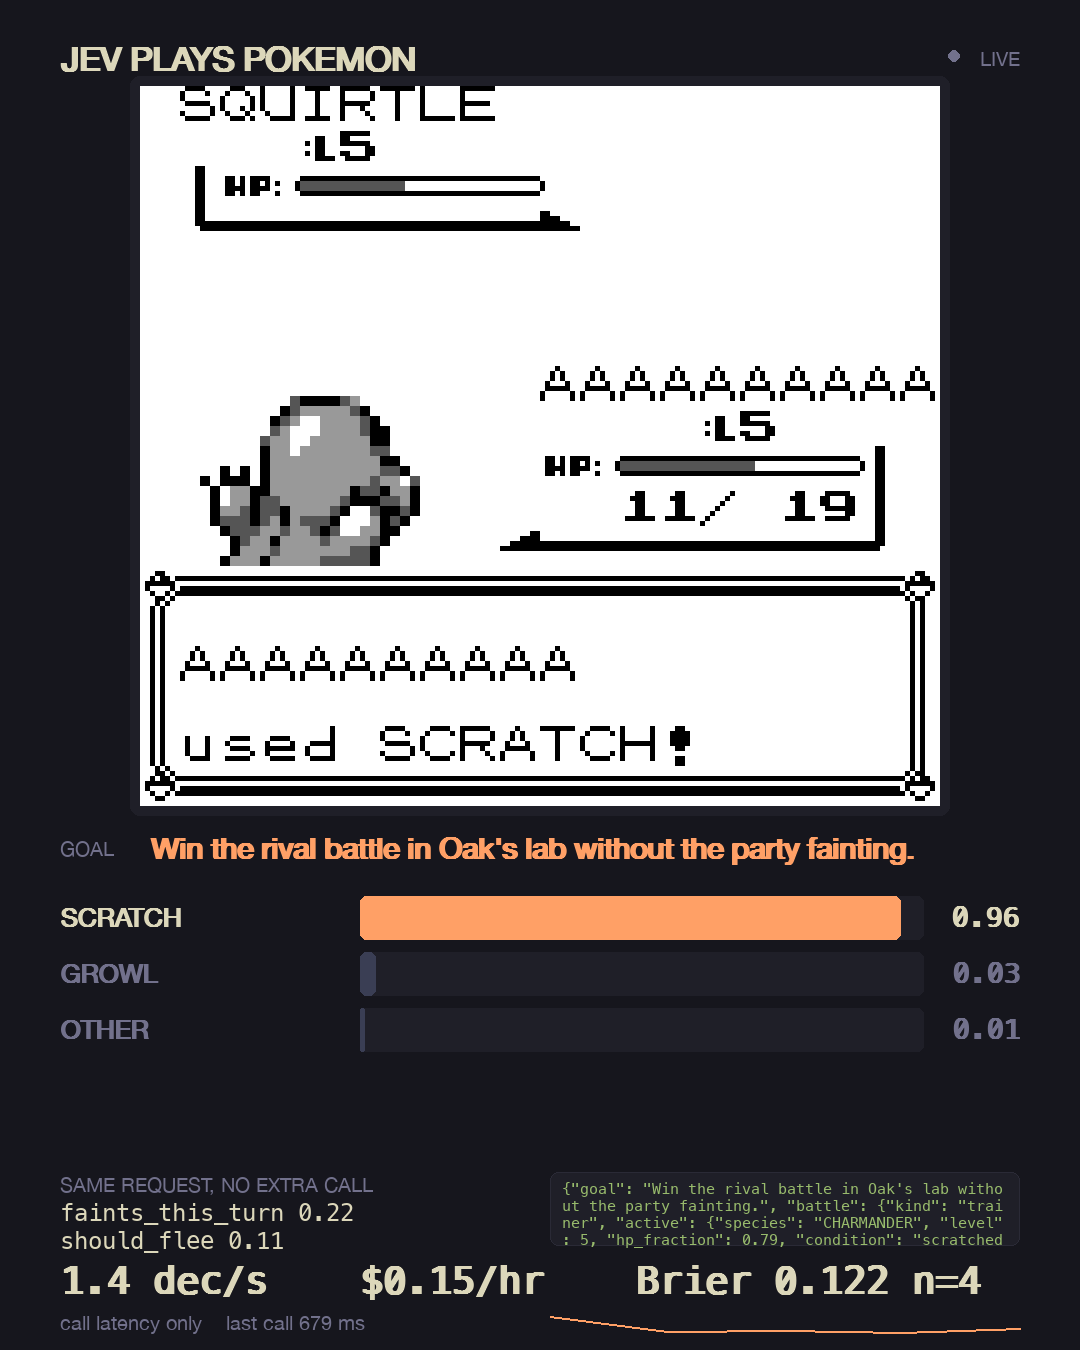
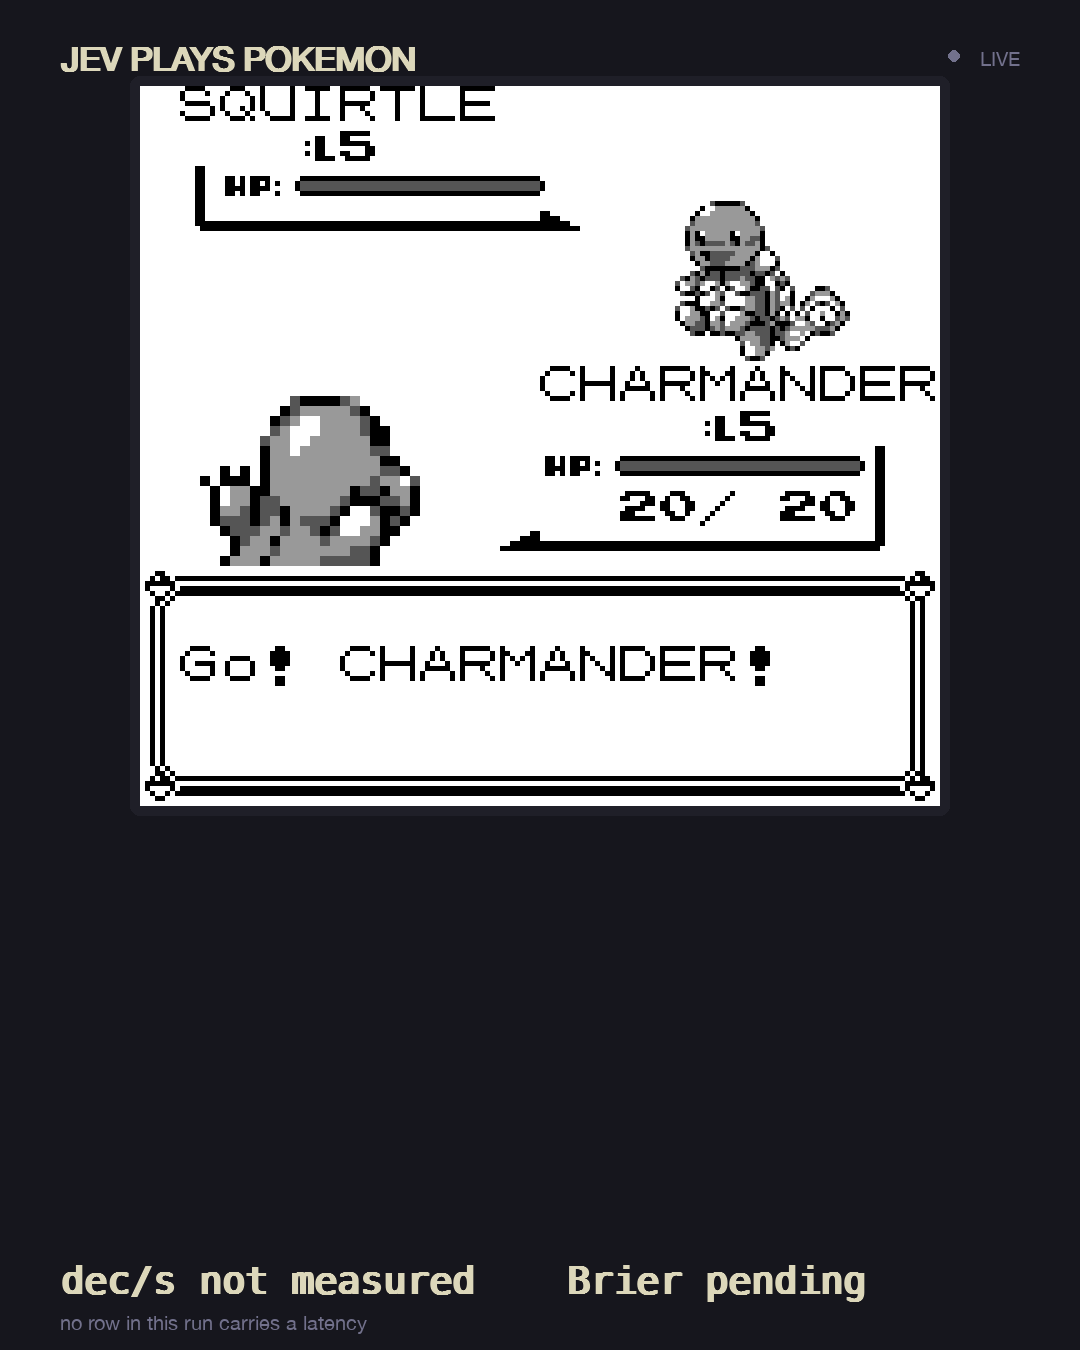
Reshoot the clip with the starter called CHARMANDER
A fallback used to blank the bar panel, because it carries no probabilities. That
reads as broken rather than as what it is: the options were real, nothing answered
about them. They now draw at zero under NO ANSWER: RATE LIMITED, CODE DEFAULT, and
the option the code picked does not light up in the accent colour, because it was not
a model choice.

The clip is ten seconds rather than thirty. Regenerating the battle state spent four
calls on the two dialogue prompts, so only one decision in the capture was answered
before the free tier cut in. The full battle, won, needs a window with five or more
calls in it.

demo/README carries the live recipe now: make_state for the intro, a save state at
the branch worth filming, jpp play --frames over the running emulator. Nothing walks
on camera, because the route is code-owned and nothing is asked between the bedroom
and the lab.

diff --git a/src/jpp/overlay.py b/src/jpp/overlay.py
@@ -123,7 +123,11 @@ class Overlay:
 
     def feed(self, record: dict, labelled=None):
         self.record = record
-        self.target = dict(record.get("probabilities") or {})
+        # a fallback has no probabilities, and blanking the panel reads as broken rather
+        # than as what it is: the options are still real, nothing answered about them
+        self.target = dict(record.get("probabilities") or {}) or {
+            k: 0.0 for k in (record.get("options") or {})
+        }
         # keep only the options this decision offered: a move from a previous battle
         # would otherwise sit at zero in the bar list for the rest of the run
         self.shown = {k: self.shown.get(k, 0.0) for k in self.target}
@@ -215,12 +219,19 @@ class Overlay:
         track_x = MARGIN + label_w
         track_w = W - 2 * MARGIN - label_w - value_w
         chosen = self.record.get("choice")
+        if self.record.get("fell_back"):
+            self.screen.blit(
+                self.small.render(
+                    "NO ANSWER: RATE LIMITED, CODE DEFAULT", True, MUTED
+                ),
+                (MARGIN, BAR_TOP - 26),
+            )
         ordered = sorted(
             self.shown.items(), key=lambda kv: -self.target.get(kv[0], 0.0)
         )
         for i, (key, value) in enumerate(ordered[:BAR_MAX]):
             y = BAR_TOP + i * (BAR_H + BAR_GAP)
-            picked = key == chosen
+            picked = key == chosen and not self.record.get("fell_back")
             name = fit(self.label, pretty(key), label_w - 16)
             self.screen.blit(
                 self.label.render(name, True, FG if picked else MUTED),

diff --git a/tests/test_overlay.py b/tests/test_overlay.py
@@ -117,3 +117,15 @@ def test_a_fallback_row_is_not_priced_as_a_jev_call():
         assert abs(overlay.measured_rate(view.latencies) - 2.0) < 1e-9
     finally:
         pygame.quit()
+
+
+def test_a_fallback_still_draws_its_options():
+    """Blanking the panel reads as broken; the options were real, nothing answered."""
+    view = overlay.Overlay()
+    try:
+        view.feed(RECORD | {"probabilities": {}, "fell_back": True})
+        assert set(view.target) == set(RECORD["options"])
+        assert all(v == 0.0 for v in view.target.values())
+        assert view.draw(None)
+    finally:
+        pygame.quit()

diff --git a/demo/README.md b/demo/README.md
@@ -62,30 +62,31 @@ uv run measure /tmp/real.jsonl
 
 ## Shot list
 
-Render the master once, then cut from it. All three clips are frame ranges of the same
-dump, so they cannot drift from each other.
+With a ROM, the clip is the live game, not a replay. `jpp play --frames` draws the
+overlay over the running emulator and dumps a PNG per captured frame, `--every 2` for
+30 fps.
 
 ```
-SDL_VIDEODRIVER=dummy uv run jpp overlay --replay fixtures/runs/sample.jsonl \
-  --demo --frames /tmp/master --seconds 13.3
+uv run python fixtures/make_state.py red-bedroom.state        # drives the intro
+SDL_VIDEODRIVER=dummy JEV_BASE_URL=http://127.0.0.1:4322 uv run jpp play \
+  --rom "$POKEMON_ROM" --state rival-battle.state \
+  --frames /tmp/final --every 2 --max-decisions 10 --out runs/final.jsonl
 ```
 
-| clip | seconds | frames | file |
-|------|---------|--------|------|
-| a. rival battle, bars flipping as HP drops | 12 | 0-359 | `demo/clip-a-battle.mp4` |
-| b. overworld tie, two directions and the pick | 8 | 120-359 | `demo/clip-b-overworld.mp4` |
-| c. ticker close-up, cropped to the bottom 300px | 6 | 219-398 | `demo/clip-c-ticker.mp4` |
+Save a state at the branch you want to film first, or the clip opens with a minute of
+walking: the route is code-owned, so nothing is asked between the bedroom and the lab.
 
-Cut b and c with `-start_number` and `-frames:v`, and c with `-vf "crop=1080:300:0:1046"`.
+Cut the clip to the decisions that were actually answered. Under the free tier that is
+about the first five, and a fallback draws its options greyed with NO ANSWER over them,
+which is honest but is not the shot.
 
-Stills, committed because the README and the thread use them: `still-bars.png` (five bars
-mid battle), `still-payload.png` (the payload card mid reveal), `still-measure.txt` (the
-measure line as text).
+Stills come straight out of the frame dump.
 
 ## Before any of this is posted
 
-- The feed panel says `live feed needs  jpp play --rom` until a ROM exists. A clip with an
-  empty panel is not the clip. Get the ROM in first.
+- `demo/clip-live-battle.mp4` is 10 seconds because only one decision in that capture was
+  answered before the free tier cut in. The full battle, won, needs a window with five or
+  more calls in it.
 - The gateway free tier rate-limits `typesafe-ai/jev` after about five requests regardless
   of credit balance, and the window refills over hours. A 40 row run costs roughly half its
   rows to stand-ins. Paid credits, re-run `fixtures/make_run.py`, re-render.
